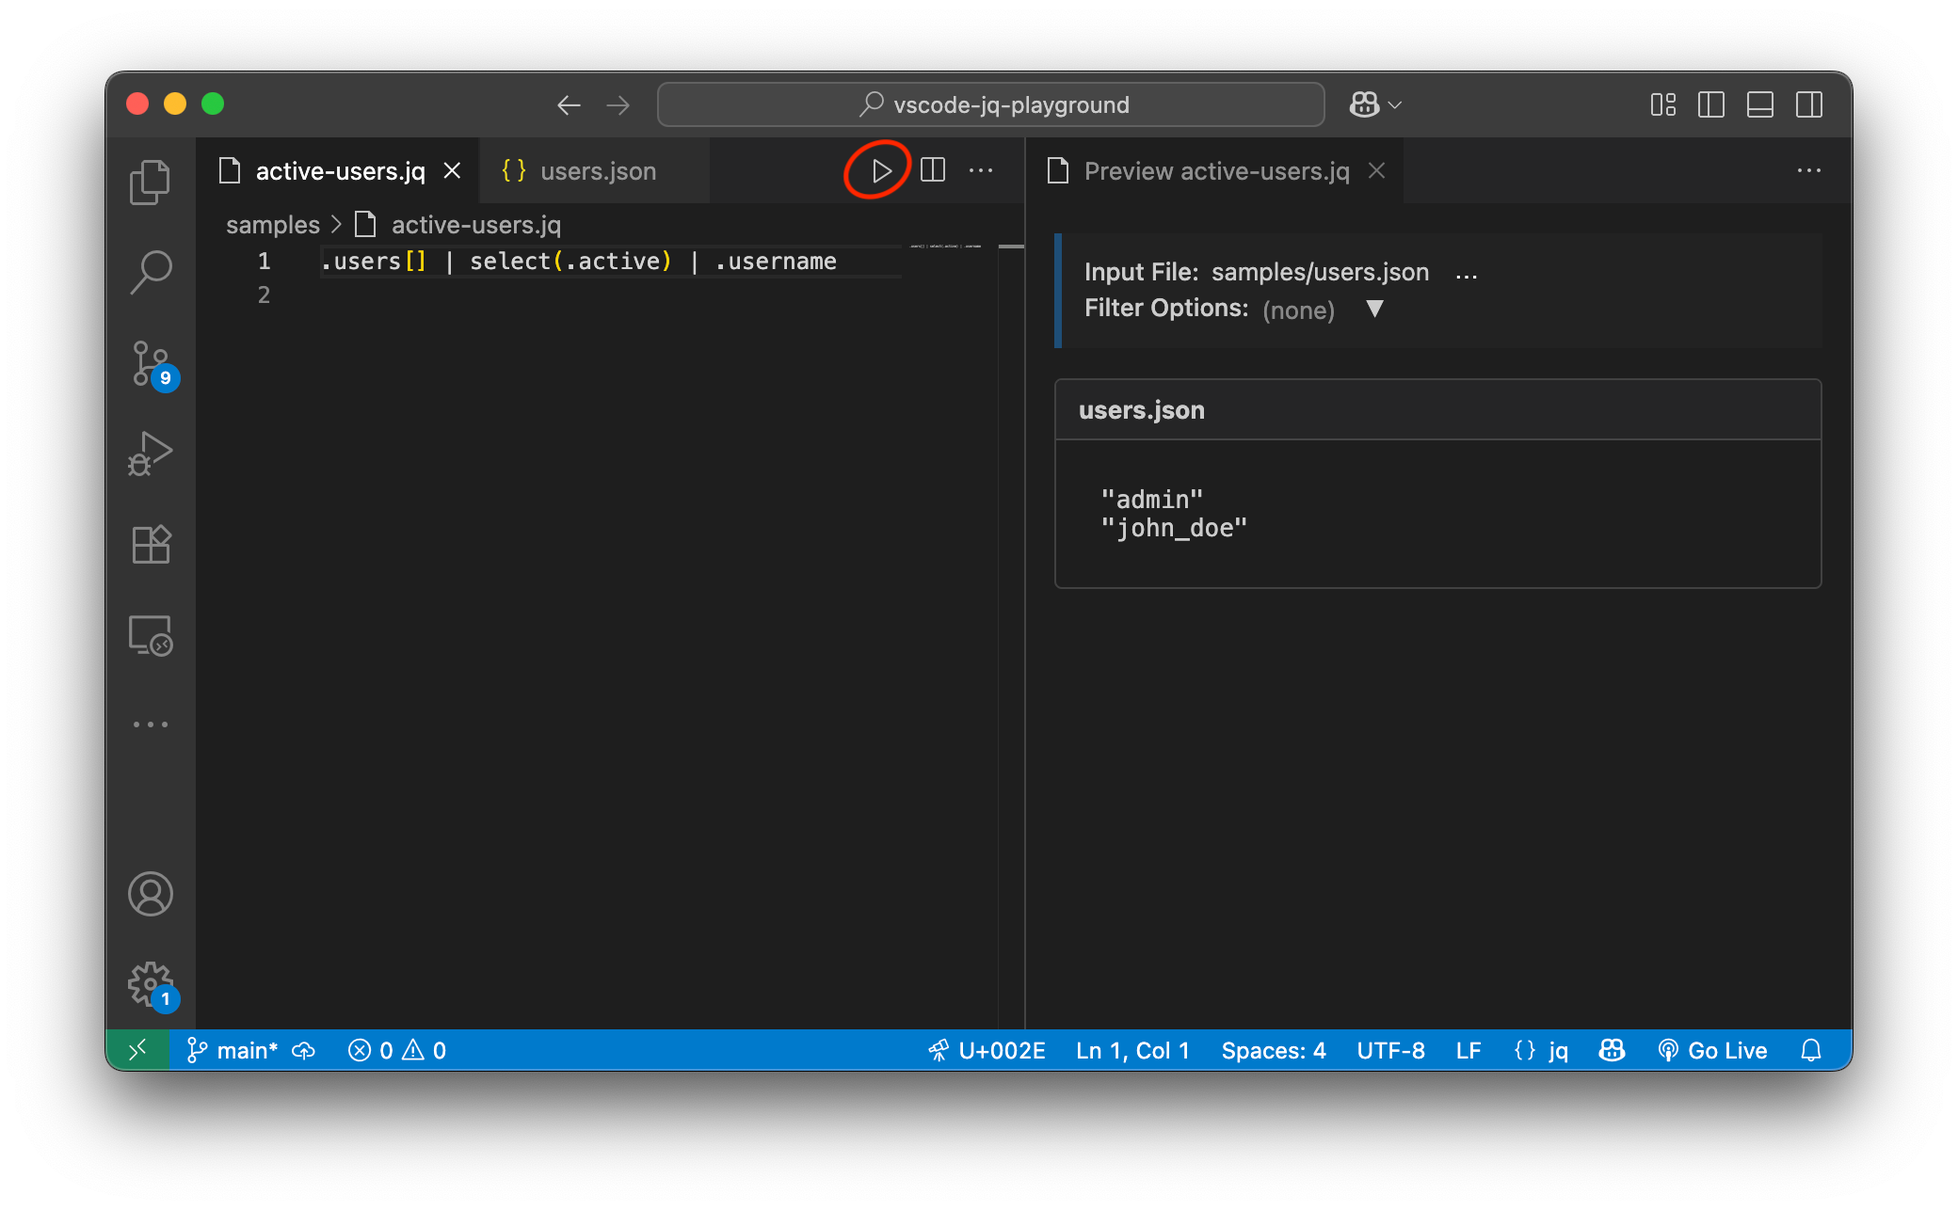
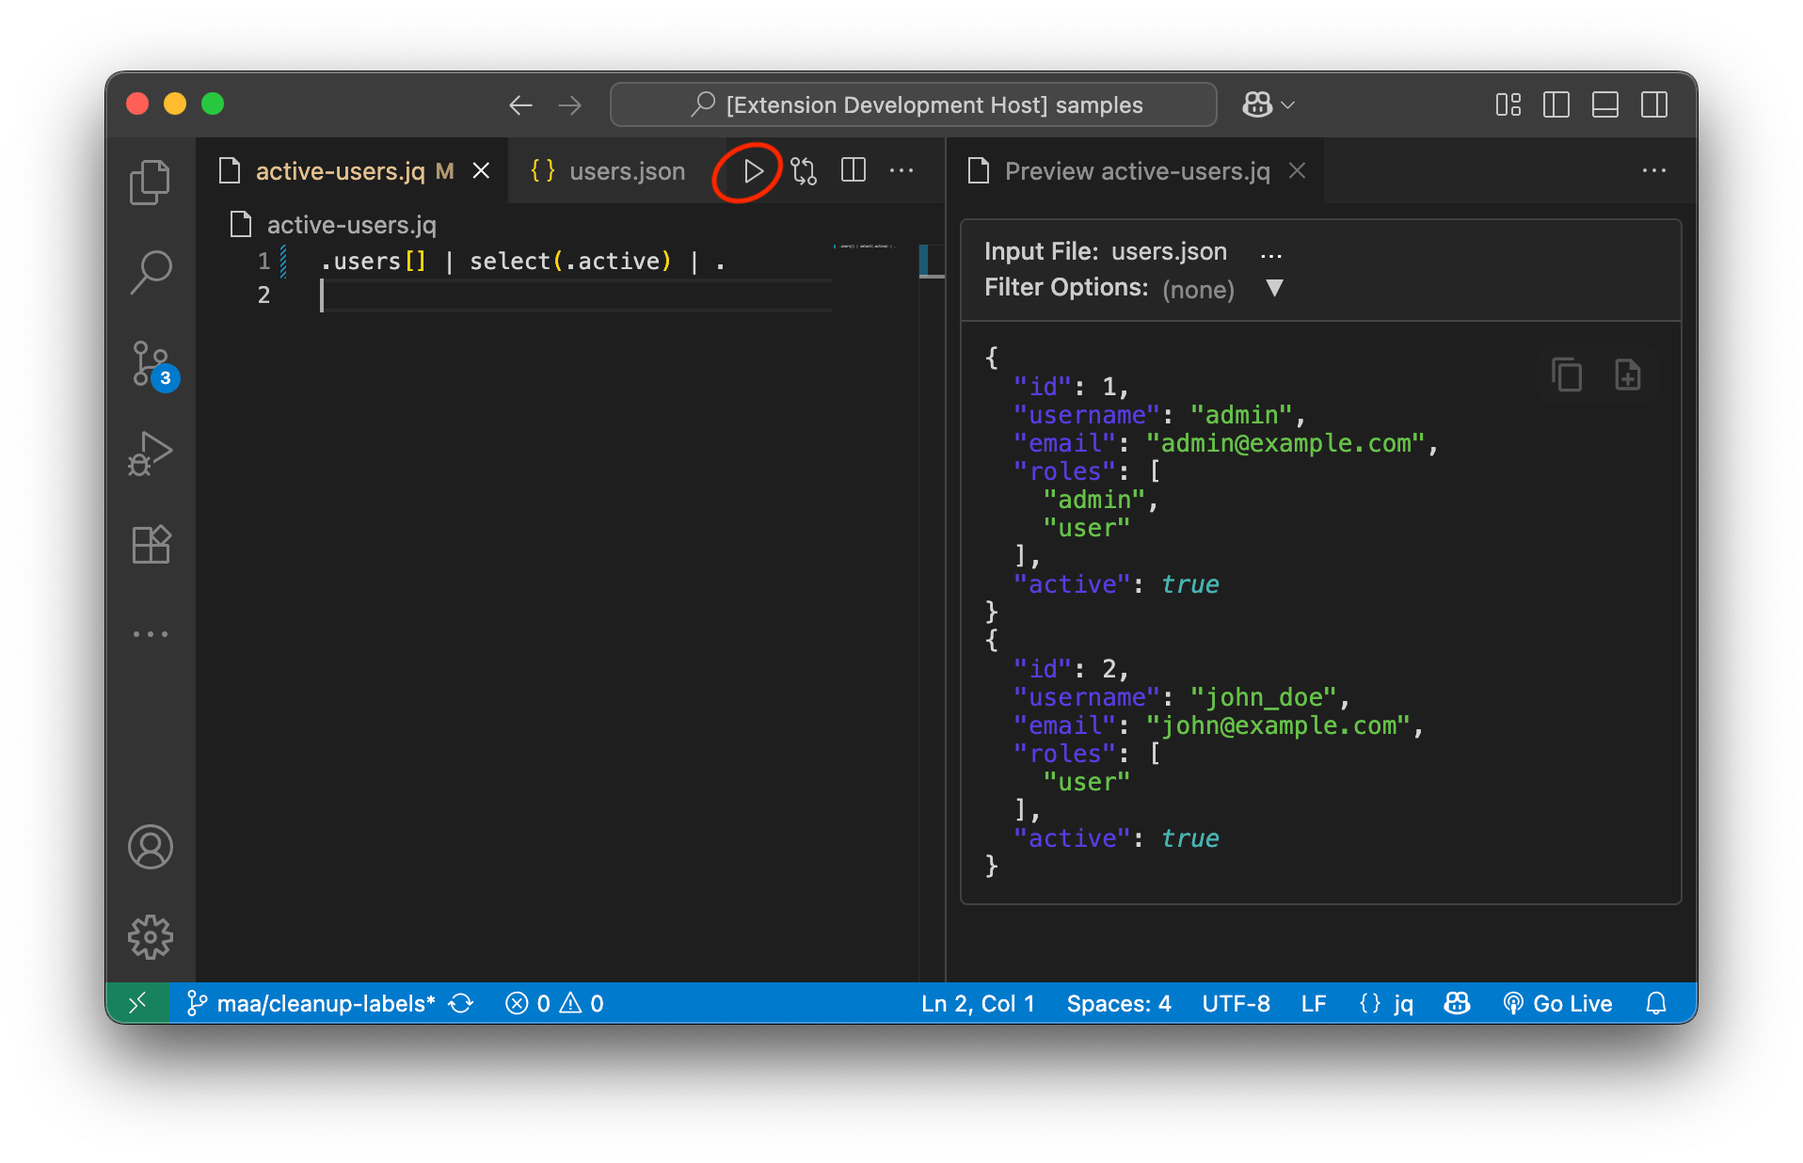
Add syntax highlighting and copy / open actions (#1)
- Add syntax highlighting 
- Add "Copy to clipboard" action for preview content
- Add "Open in new document" action for preview content
- Update filename display and input selection to match "Go to file..."
- Prepare for v0.2.0 release

diff --git a/src/extension.ts b/src/extension.ts
@@ -41,6 +41,8 @@ export function activate(context: vscode.ExtensionContext) {
     }));
 }
 
+export function deactivate() { }
+
 class JqPreviewSession {
     private disposables: vscode.Disposable[] = [];
     private needUpdate = false;
@@ -175,6 +177,19 @@ class JqPreviewSession {
                     this.options = updateROption(newInput, this.options);
                     this.updateWebview();
                 }
+            } else if (msg.type === 'openResultDoc') {
+                const isRaw = this.options.includes('-r');
+                const doc = await vscode.workspace.openTextDocument({
+                    content: msg.content,
+                    language: isRaw ? undefined : 'json'
+                });
+
+                // Open in the column to the left if any
+                let targetColumn = vscode.ViewColumn.Active;
+                if (this.panel.viewColumn && this.panel.viewColumn > 1) {
+                    targetColumn = this.panel.viewColumn - 1;
+                }
+                vscode.window.showTextDocument(doc, targetColumn);
             }
         });
         this.panel.onDidDispose(() => {
@@ -199,18 +214,53 @@ class JqPreviewSession {
         if (!this.inputFile) {
             return '<p style="color: orange;">No input file selected.</p>';
         }
-        let inputFileDisplay = getWorkspaceRelativePath(this.inputFile);
+        const inputUri = vscode.Uri.file(this.inputFile);
+        const { name, description } = filenameDisplay(inputUri);
+        let inputFileDisplay = `<span class="jq-input-name">${escapeHtml(name)}</span><span class="jq-input-desc"> ${escapeHtml(description)}</span>`;
         const optionsHtml = renderOptionSelection(this.options);
+        const isRaw = this.options.includes('-r');
+        let highlightedContent = '';
+        if (!isRaw && this.previewState.type === PreviewType.Result) {
+            highlightedContent = `<pre class="jq-json-output">${highlightJson(this.previewState.content)}</pre>`;
+        } else {
+            highlightedContent = `<pre>${escapeHtml(this.previewState.content)}</pre>`;
+        }
+
+        let copyIcon = `
+            <svg xmlns="http://www.w3.org/2000/svg" width="100%" height="100%" viewBox="0 0 24 24"
+                preserveAspectRatio="xMidYMid meet" fill="currentColor">
+                <path d="M0 0h24v24H0V0z" fill="none" />
+                <path d="M16 1H4c-1.1 0-2 .9-2 2v14h2V3h12V1zm3 4H8c-1.1 0-2 .9-2 2v14c0 1.1.9 2 2 2h11c1.1 0 2-.9 2-2V7c0-1.1-.9-2-2-2zm0 16H8V7h11v14z" />
+            </svg>
+        `;
+        let openIcon = `
+            <svg xmlns="http://www.w3.org/2000/svg" width="100%" height="100%" viewBox="0 0 24 24"
+                preserveAspectRatio="xMidYMid meet" fill="currentColor">
+                <path d="M0 0h24v24H0V0z" fill="none" />
+                <path d="M13 11h-2v3H8v2h3v3h2v-3h3v-2h-3zm1-9H6c-1.1 0-2 .9-2 2v16c0 1.1.89 2 1.99 2H18c1.1 0 2-.9 2-2V8l-6-6zm4 18H6V4h7v5h5v11z" />
+            </svg>
+        `;
+
         let previewContent = `
             <div class="json-file">
-                <div class="json-file-header">${escapeHtml(path.basename(this.inputFile))}</div>
+                <div class="json-file-header">
+                    <div class="jq-input-row"><span class="info-label">Input File:</span><span class="jq-input-file">${inputFileDisplay}</span><button class="jq-input-choose" id="jq-input-choose" title="Change input file">&#8230;</button></div>
+                    ${optionsHtml}
+                </div>
                 <div class="json-content">
-                    <div class="${this.previewState.type}">
-                        <pre>${escapeHtml(this.previewState.content)}</pre>
+                    ${(this.previewState.type === PreviewType.Result) ? `
+                    <div class="jq-result-actions" id="jq-result-actions">
+                        <button class="jq-action-btn" id="jq-copy-btn" title="Copy to clipboard" aria-label="Copy">${copyIcon}</button>
+                        <button class="jq-action-btn" id="jq-open-btn" title="Open in new document" aria-label="Open">${openIcon}</button>
+                    </div>
+                    ` : ''}
+                    <div class="${this.previewState.type} jq-result-pane" id="jq-result-pane">
+                        ${highlightedContent}
                     </div>
                 </div>
             </div>
         `;
+
         return `<!DOCTYPE html>
         <html lang="en">
         <head>
@@ -218,11 +268,16 @@ class JqPreviewSession {
             <meta name="viewport" content="width=device-width, initial-scale=1.0">
             <title>jq Preview</title>
             <style>
-                body { font-family: var(--vscode-font-family); font-size: var(--vscode-font-size); color: var(--vscode-foreground); background-color: var(--vscode-editor-background); padding: 16px; }
-                .info-block { background: var(--vscode-textBlockQuote-background); border-left: 4px solid var(--vscode-textBlockQuote-border); padding: 12px; margin-bottom: 16px; }
-                .info-label { font-weight: 500; margin-right: 0.5em; }
+                body { font-family: var(--vscode-font-family); font-size: var(--vscode-font-size); color: var(--vscode-foreground); padding: 8px; }
+                .jq-activity-indicator { display: none; position: fixed; left: 0; right: 0; top: 0; height: 2px; z-index: 1000; }
+                .jq-activity-indicator.active { display: block; }
+                .jq-activity-bar { width: 100%; height: 100%; background: linear-gradient(90deg, #1565c0 0%, #42a5f5 30%, #b3e5fc 50%, #42a5f5 70%, #1565c0 100%); background-size: 200% 100%; animation: jq-activity-bounce 2s ease-in-out infinite alternate; }
+                @keyframes jq-activity-bounce { 0% { background-position: 0% 0; } 100% { background-position: 100% 0; } }
+                .info-label { font-weight: 500; margin-right: 0.5em; white-space: nowrap; }
                 .jq-input-row { display: flex; align-items: center; margin-bottom: 2px; }
                 .jq-input-file { margin-right: 0.5em; }
+                .jq-input-name { font-size: 1em; }
+                .jq-input-desc { font-size: 0.9em; opacity: 0.7; margin-left: 0.3em; }
                 .jq-input-choose { background: none; border: none; color: var(--vscode-button-foreground); font-size: 1em; cursor: pointer; margin-left: 0.2em; padding: 0 4px; border-radius: 3px; }
                 .jq-input-choose:hover { background: var(--vscode-button-hoverBackground); }
                 .jq-options-block { margin-top: 4px; }
@@ -237,31 +292,77 @@ class JqPreviewSession {
                 .jq-dropdown-item { padding: 6px 12px; cursor: pointer; }
                 .jq-dropdown-item.selected, .jq-dropdown-item:hover { background: var(--vscode-list-activeSelectionBackground); color: var(--vscode-list-activeSelectionForeground); }
                 .json-file { margin-bottom: 24px; border: 1px solid var(--vscode-panel-border); border-radius: 4px; overflow: hidden; }
-                .json-file-header { background-color: var(--vscode-editorGroupHeader-tabsBackground); padding: 8px 12px; font-weight: bold; border-bottom: 1px solid var(--vscode-panel-border); }
-                .json-content { padding: 12px; }
+                .json-file-header { background-color: var(--vscode-editorGroupHeader-tabsBackground); padding: 8px 12px; font-weight: normal; border-bottom: 1px solid var(--vscode-panel-border); }
+                .json-content { padding: 12px; position: relative; }
                 .error { color: var(--vscode-errorForeground); background-color: var(--vscode-inputValidation-errorBackground); border: 1px solid var(--vscode-inputValidation-errorBorder); padding: 8px; border-radius: 4px; margin: 8px 0; }
                 .placeholder { color: var(--vscode-descriptionForeground); background: none; border: none; padding: 8px; border-radius: 4px; margin: 8px 0; font-style: italic; }
-                .result { background-color: var(--vscode-editor-background); border: 1px solid var(--vscode-input-border); padding: 12px; border-radius: 4px; overflow-x: auto; }
+                .result { border: 1px solid var(--vscode-input-border); border-radius: 4px; overflow-x: auto; }
                 pre { margin: 0; white-space: pre-wrap; word-wrap: break-word; }
-                .jq-activity-indicator { display: none; position: fixed; left: 0; right: 0; top: 0; height: 2px; z-index: 1000; }
-                .jq-activity-indicator.active { display: block; }
-                .jq-activity-bar { width: 100%; height: 100%; background: linear-gradient(90deg, #1565c0 0%, #42a5f5 30%, #b3e5fc 50%, #42a5f5 70%, #1565c0 100%); background-size: 200% 100%; animation: jq-activity-bounce 2s ease-in-out infinite alternate; }
-                @keyframes jq-activity-bounce { 0% { background-position: 0% 0; } 100% { background-position: 100% 0; } }
+                .jq-json-output { background: none; color: #d4d4d4; }
+                .hljs-attr { color: #593CE2; }
+                .hljs-string { color: #66C147; }
+                .hljs-number { }
+                .hljs-null { opacity: 0.6; font-style: italic; }
+                .hljs-boolean { color: #46B4B2; font-style: italic; }
+                .jq-result-actions { opacity: 0; transition: opacity 0.2s; position: absolute; top: 12px; right: 12px; z-index: 2; gap: 0; background: var(--vscode-editorWidget-background, #23272e); border: 1px solid var(--vscode-input-border); border-radius: 8px; box-shadow: 0 2px 8px rgba(0,0,0,0.08); display: flex; flex-direction: row; }
+                .jq-result-actions.visible { opacity: 0.3; }
+                .jq-result-actions.opaque { opacity: 1; }
+                .jq-action-btn { background: none; height: 32px; color: var(--vscode-foreground); border: none; border-radius: 0; padding: 6px; margin: 0; cursor: pointer; font-size: 1em; transition: background 0.2s, opacity 0.2s; outline: none; display: flex; align-items: center; }
+                .jq-action-btn:first-child { border-top-left-radius: 6px; border-bottom-left-radius: 6px; }
+                .jq-action-btn:last-child { border-top-right-radius: 6px; border-bottom-right-radius: 6px; }
+                .jq-action-btn:hover, .jq-action-btn:focus { background: var(--vscode-button-hoverBackground); opacity: 1; }
+                .jq-result-pane { position: relative; }
+                .jq-copied-tooltip { position: absolute; top: -28px; left: 50%; transform: translateX(-50%); background: var(--vscode-editorInfo-foreground, #4caf50); color: #fff; padding: 2px 10px; border-radius: 6px; font-size: 0.95em; pointer-events: none; opacity: 0.95; z-index: 10; box-shadow: 0 2px 8px rgba(0,0,0,0.10); white-space: nowrap; }
             </style>
         </head>
         <body>
             <div class="jq-activity-indicator" id="jq-activity-indicator">
                 <div class="jq-activity-bar"></div>
             </div>
-            <div class="info-block">
-                <div class="jq-input-row"><span class="info-label">Input File:</span><span class="jq-input-file">${escapeHtml(inputFileDisplay)}</span><button class="jq-input-choose" id="jq-input-choose" title="Change input file">&#8230;</button></div>
-                ${optionsHtml}
-            </div>
             ${previewContent}
             <script>
+            const vscode = window.acquireVsCodeApi();
             document.getElementById('jq-input-choose').addEventListener('click', () => {
-                window.acquireVsCodeApi().postMessage({ type: 'chooseInput' });
+                vscode.postMessage({ type: 'chooseInput' });
             });
+
+            // Show/hide result action buttons on hover using opacity changes
+            const resultPane = document.getElementById('jq-result-pane');
+            const actions = document.getElementById('jq-result-actions');
+            if (actions) {
+                resultPane.addEventListener('mouseenter', () => { actions.classList.add('visible'); });
+                resultPane.addEventListener('mouseleave', () => {
+                    actions.classList.remove('visible');
+                    actions.classList.remove('opaque');
+                });
+                actions.addEventListener('mouseenter', () => { actions.classList.add('opaque'); });
+                actions.addEventListener('mouseleave', () => { actions.classList.remove('opaque'); });
+
+                // Use event delegation for action buttons
+                actions.addEventListener('click', (event) => {
+                    const target = event.target.closest('button');
+                    if (!target) return;
+                    event.preventDefault(); // Prevent default button behavior
+                    target.blur(); // Remove focus from button after click
+
+                    const text = resultPane.innerText;
+                    if (target.id === 'jq-copy-btn') {
+                        navigator.clipboard.writeText(text).then(() => {
+                            let tooltip = document.createElement('span');
+                            tooltip.className = 'jq-copied-tooltip';
+                            tooltip.textContent = 'Copied!';
+                            target.appendChild(tooltip);
+                            setTimeout(() => {
+                                if (tooltip.parentNode) tooltip.parentNode.removeChild(tooltip);
+                            }, 900);
+                        });
+                    } else if (target.id === 'jq-open-btn') {
+                        vscode.postMessage({ type: 'openResultDoc', content: text });
+                    }
+                });
+            }
+
+            // Handle dropdown for options
             const dropdownBtn = document.getElementById('jq-dropdown-btn');
             const dropdownList = document.getElementById('jq-dropdown-list');
             dropdownBtn.addEventListener('click', (e) => {
@@ -283,7 +384,7 @@ class JqPreviewSession {
                     } else {
                         selected.push(value);
                     }
-                    window.acquireVsCodeApi().postMessage({ type: 'setOptions', options: selected });
+                    vscode.postMessage({ type: 'setOptions', options: selected });
                     dropdownList.style.display = 'none';
                 });
             });
@@ -294,10 +395,12 @@ class JqPreviewSession {
                     let selected = Array.from(dropdownList.getElementsByClassName('jq-dropdown-item'))
                         .filter(i => i.classList.contains('selected') && i.getAttribute('data-value') !== value)
                         .map(i => i.getAttribute('data-value'));
-                    window.acquireVsCodeApi().postMessage({ type: 'setOptions', options: selected });
+                    vscode.postMessage({ type: 'setOptions', options: selected });
                     dropdownList.style.display = 'none';
                 });
             });
+
+            // Handle loading indicator
             window.addEventListener('message', event => {
                 const msg = event.data;
                 if (msg && msg.type === 'setLoading') {
@@ -317,7 +420,7 @@ class JqPreviewSession {
     }
 
     private async executeJq(jsonContent: string): Promise<string> {
-        // Artificial delay for testing: 20% chance
+        // Artificial delay for testing
         // if (Math.random() < 0.99) {
         //     await new Promise(res => setTimeout(res, 2000));
         // }
@@ -357,16 +460,45 @@ class JqPreviewSession {
     }
 }
 
-async function pickInputFile(): Promise<string | undefined> {
-    const files = await vscode.workspace.findFiles('**/*', '**/node_modules/**', 100);
-    if (files.length === 0) {
-        vscode.window.showErrorMessage('No files found in workspace.');
-        return undefined;
+function filenameDisplay(uri: vscode.Uri): { name: string, description: string } {
+    const name = path.basename(uri.fsPath);
+    const wsFolders = vscode.workspace.workspaceFolders?.map(f => f.uri.fsPath) || [];
+    const wsFolder = wsFolders.find(ws => uri.fsPath.startsWith(ws + path.sep));
+    let description = '';
+    if (wsFolder) {
+        const rel = path.relative(wsFolder, uri.fsPath);
+        const dir = path.dirname(rel);
+        description = dir === '.' ? '' : dir;
+    } else {
+        description = path.dirname(uri.fsPath);
     }
-    const picked = await vscode.window.showQuickPick(files.map(f => ({ label: path.basename(f.fsPath), description: f.fsPath })), {
-        placeHolder: 'Select a file to use as input for this jq filter',
+    return { name, description };
+}
+
+async function pickInputFile(): Promise<string | undefined> {
+    const openDocs = vscode.workspace.textDocuments
+        .filter(doc => !doc.isUntitled && doc.uri.scheme === 'file')
+        .map(doc => doc.uri);
+    const workspaceFiles =
+        await vscode.workspace.findFiles('**/*', '**/node_modules/**', 1000);
+    const allUris = [...openDocs, ...workspaceFiles].filter((uri, idx, arr) =>
+        arr.findIndex(u => u.fsPath === uri.fsPath) === idx
+    );
+
+    const items = allUris.map(uri => {
+        const { name, description } = filenameDisplay(uri);
+        return {
+            label: name,
+            description,
+            uri
+        };
     });
-    return picked?.description;
+
+    const picked = await vscode.window.showQuickPick(items, {
+        placeHolder: 'Select a file to use as input for this jq filter',
+        matchOnDescription: true
+    });
+    return picked?.uri.fsPath;
 }
 
 function renderOptionSelection(options: string[]): string {
@@ -385,7 +517,7 @@ function renderOptionSelection(options: string[]): string {
     return `
             <div class="jq-options-block">
                 <div class="jq-options-row-flex">
-                    <span class="jq-options-label">Filter&nbsp;Options:</span>
+                    <span class="jq-options-label">Filter Options:</span>
                     <span class="jq-chips-row-flex" id="jq-chips-row">${chipsHtml}<button id="jq-dropdown-btn" class="jq-dropdown-btn" title="Edit options">&#x25BC;</button></span>
                 </div>
                 <div id="jq-dropdown-list" class="jq-dropdown-list" style="display:none;">
@@ -427,4 +559,24 @@ function getWorkspaceRelativePath(filePath: string): string {
     return filePath;
 }
 
-export function deactivate() { }
+
+// Simpler regex-based JSON/jq fragment highlighter for jq output
+function highlightJson(json: string): string {
+    const stringRE = /"(?:\\.|[^"\\])*"/g;
+    const numberRE = /-?\b\d+(?:\.\d+)?(?:[eE][+-]?\d+)?\b/g;
+    const booleanRE = /\b(?:true|false)\b/g;
+    const nullRE = /\bnull\b/g;
+    const keyRE = /("(?:\\.|[^"\\])*"\s*):/g;
+
+    function highlightLine(line: string): string {
+        line = line.replace(keyRE, (m, g1) => `<span class="hljs-attr">${escapeHtml(g1)}</span>:`);
+        line = line.replace(stringRE, m =>
+            /hljs-attr/.test(m) ? m : `<span class="hljs-string">${escapeHtml(m)}</span>`
+        );
+        line = line.replace(numberRE, m => `<span class="hljs-number">${m}</span>`);
+        line = line.replace(booleanRE, m => `<span class="hljs-boolean">${m}</span>`);
+        line = line.replace(nullRE, m => `<span class="hljs-null">${m}</span>`);
+        return line;
+    }
+    return json.split(/\r?\n/).map(highlightLine).join('\n');
+}

diff --git a/CHANGELOG.md b/CHANGELOG.md
@@ -3,20 +3,14 @@
 All notable changes to the "VSCode jq Playground" extension will be documented
 in this file.
 
-## [0.0.1] - 2025-06-22
 
-### Added
-- Initial release of jq Playground extension
-- Live preview functionality for .jq files
-- Preview button in editor title bar for .jq files
-- Real-time updates when editing jq filters
-- Error feedback for invalid jq filters
-- Background activity indicator for long-running jq commands
-- Support for jq command-line options in preview
+## [0.2.0] - 2025-06-24
 
-### Features
-- Click the play button when editing .jq files to open live preview
-- Preview automatically updates as you edit your jq filter
-- Tests filters against all JSON files found in the workspace
-- Beautiful syntax-highlighted output in preview panel
-- VS Code theme integration for consistent styling
+- Fix layout issues
+- Cleanup layout, file selection, and  file name display
+- Add "Copy to clipboard" and "Open in new document" actions
+
+
+## [0.1.0] - 2025-06-22
+
+Initial release of the jq Playground extension for Visual Studio Code.
